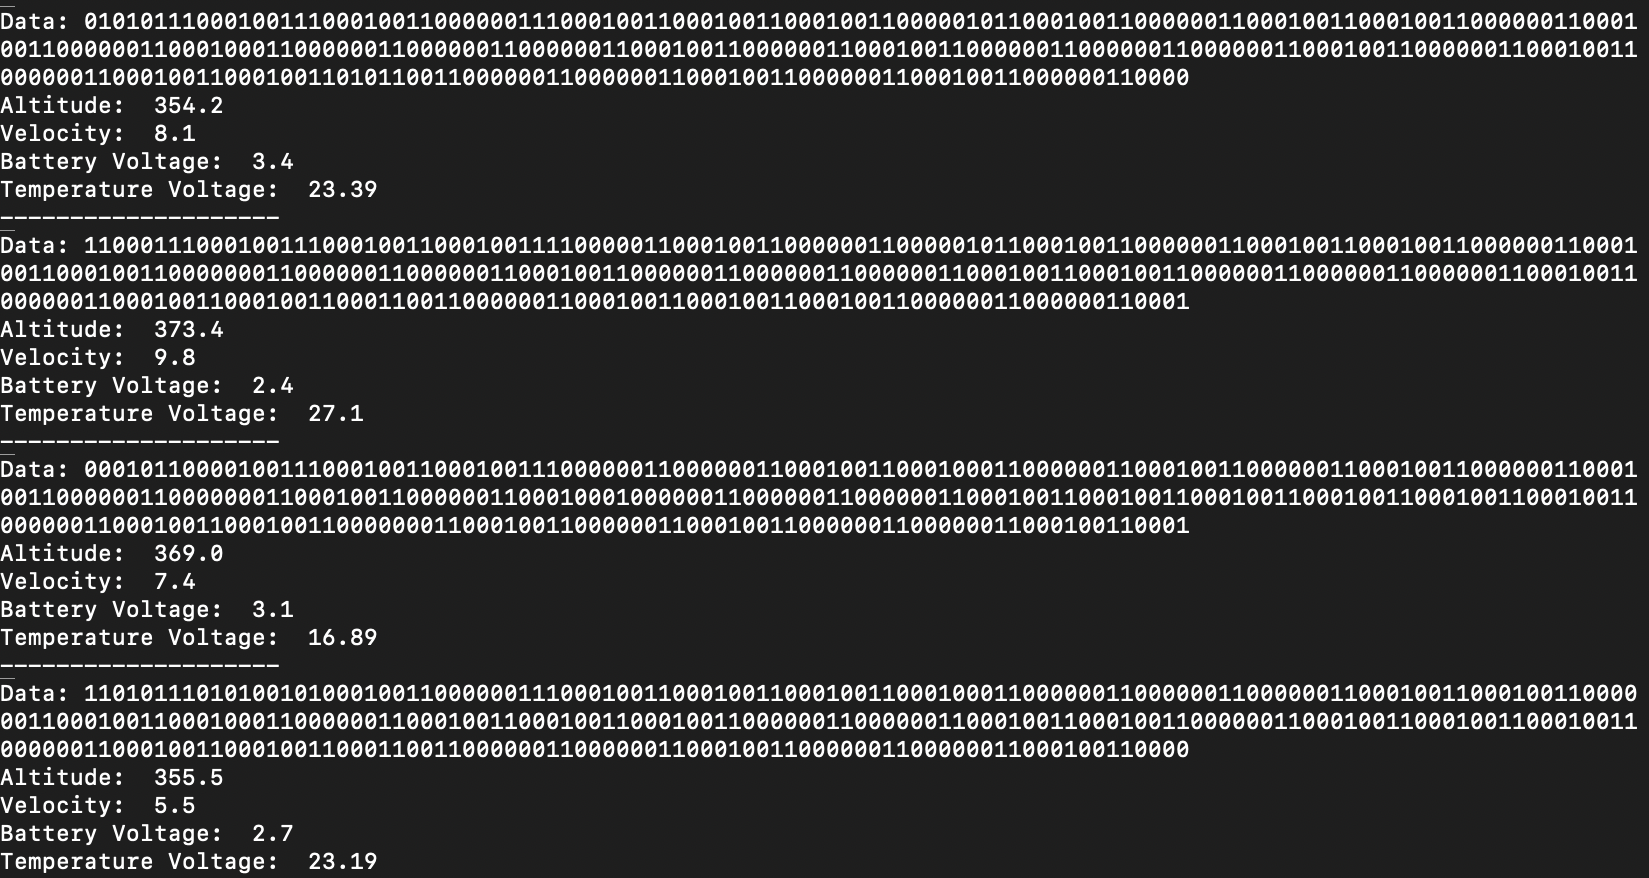
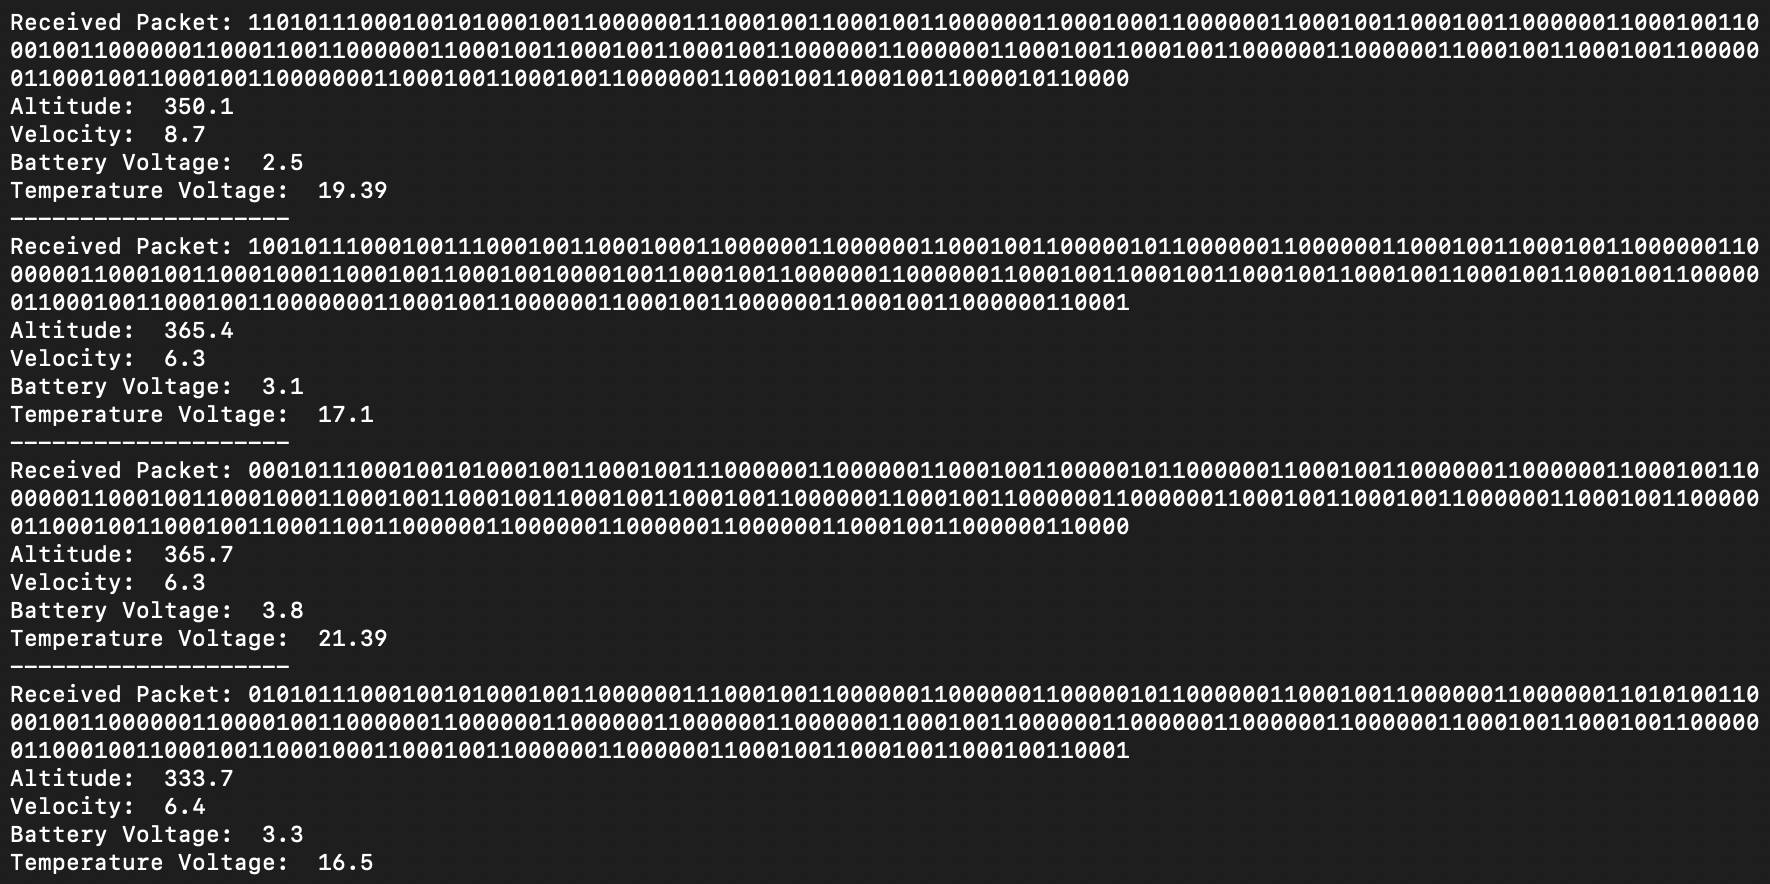
add files

Changed region(s): [[0.0, 0.0, 1.0, 1.0]]

diff --git a/ground_station.py b/ground_station.py
@@ -24,7 +24,7 @@ print("Live on ", server_address)
 while True:
     try:
         data, client_address = server_socket.recvfrom(1024)
-        print(f"Data: {data.decode()}")
+        print(f"Received Packet: {data.decode()}")
         decoded_data = hamming_decode(data.decode())
         alt, vel, volt, temp = decode(decoded_data)
         print("Altitude: ", alt)

diff --git a/satellite.py b/satellite.py
@@ -32,7 +32,7 @@ try:
         data = packet.serialize()
         data = hamming_encode(data)
         _, data = flip_random_bit(data)
-        print("Sending:", data)
+        print("Sending Packet:", data)
         print("--------------------")
         client_socket.sendto(str(data).encode(), server_address)
 

diff --git a/README.md b/README.md
@@ -1,0 +1,57 @@
+# Satellite Telemetry Simulator
+
+
+## Satellite
+![Satellite](./satellite.png)
+
+## Ground Station
+![Ground Station](./ground_station.png)
+
+A basic satellite telemetry simulator that mimics radio communication between a satellite and a ground station using UDP client-server architecture. Random telemetry data is generated, a single bit is flipped to simulate transmission errors, and is corrected using Hamming error correction.
+
+## Overview
+
+The satellite generates random telemetry data using `numpy.random`, converts to binary, encodes with hamming error correction and transmits over UDP after flipping single random bit to simulate real-world communication errors. 
+
+The ground station (server) receives the data, detects and corrects the error using Hamming code, and decodes the telemetry for display.
+
+- **Altitude** (12 bits)
+- **Velocity** (7 bits)
+- **Voltage** (7 bits)
+- **Temperature** (12 bits)
+
+
+## Features
+
+- **UDP Communication**: Simulates satellite-to-ground radio communication using UDP client (satellite) and server (ground station).
+- **Random Telemetry**: Produces random telemetry values for altitude, temperature, velocity, and voltage.
+- **Error Simulation**: Introduces a random single-bit error in the transmitted data to mimic noise or interference.
+- **Hamming Error Correction**: Implements Hamming code to detect and correct single-bit errors at the ground station.
+- **Binary Encoding**: Telemetry data is packed into a binary format with specified bit lengths (12, 7, 7, 12).
+
+## Working
+1. **Satellite (UDP Client)**:
+   - Generates random telemetry data.
+   - Encodes the data into a binary string with Hamming parity bits.
+   - Flips a random bit to simulate a transmission error.
+   - Sends the data to the ground station via UDP.
+
+2. **Ground Station (UDP Server)**:
+   - Receives the corrupted binary data.
+   - Uses Hamming error correction to detect and fix the single-bit error.
+   - Decodes the corrected binary data back into telemetry values.
+   - Outputs the results.
+
+
+## Usage
+
+Super simple:
+1. Start the ground station (server):
+   ```bash
+   python ground_station.py
+   ```
+2. Run the satellite simulator (client):
+   ```bash
+   python satellite.py
+   ```
+
